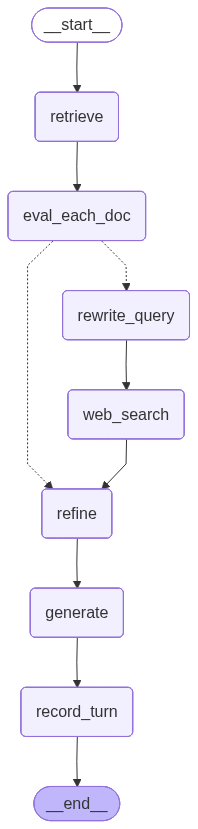
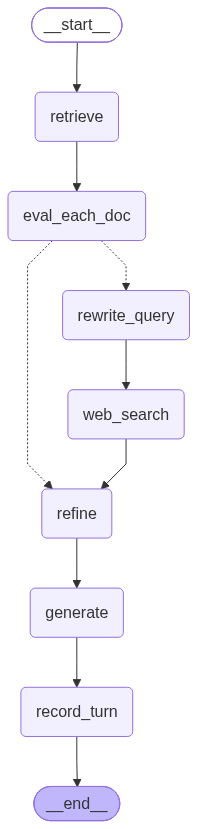
fix(crag): use Gemini primary with Groq fallback and batch strip refinement

diff --git a/backend/app/crag/llm.py b/backend/app/crag/llm.py
@@ -27,42 +27,38 @@ def _build_hf_chat(repo_id: str) -> ChatHuggingFace:
     return ChatHuggingFace(llm=endpoint)
 
 
-# A loop of free, high-volume HuggingFace-hosted open models (routed through HF's
-# Inference Providers) is primary - Gemini's free tier turned out to be too
-# restrictive (~20 requests/day) for how many LLM calls a single CRAG question makes
-# (grade every doc + filter every strip). Gemini and Groq's Qwen3 stay wired in
-# unchanged as the last two fallback tiers, after every HF model has been tried.
-hf_chats = [_build_hf_chat(repo_id) for repo_id in settings.hf_chat_models]
+# ---------------------------------------------------------------------------
+# Option A: Gemini is primary, Groq is fallback.
+# Bypasses HuggingFace Inference Providers which require paid credits (402).
+# ---------------------------------------------------------------------------
+primary_llm = ChatGoogleGenerativeAI(
+    model=settings.chat_model,
+    temperature=0,
+    google_api_key=settings.gemini_api_key,
+    max_retries=1,
+)
+fallback_llm = ChatGroq(
+    model=settings.fallback_chat_model,
+    temperature=0,
+    groq_api_key=settings.groq_api_key,
+)
 
-llm = hf_chats[0].with_fallbacks(hf_chats[1:] + [primary_llm, fallback_llm])
-
-
-def _hf_structured(chat: ChatHuggingFace, schema):
-    """HuggingFace's `with_structured_output` only supports a dict/JSON-schema for
-    tool-calling - a Pydantic class raises `NotImplementedError` there - so the
-    schema is converted to a dict up front and the result coerced back into the
-    Pydantic `schema` afterward, to match what Gemini/Groq's chains return.
-
-    Open-weight models occasionally mis-type a tool-call argument (e.g. emitting
-    the string "false" instead of the boolean `false`), which the provider rejects
-    server-side as a 400 before any response reaches this chain - retrying once
-    resolves it most of the time without needing a different model.
-    """
-    schema_dict = schema.model_json_schema()
-    schema_dict["title"] = schema.__name__
-    raw_chain = chat.with_structured_output(schema_dict, method="function_calling")
-    return (raw_chain | RunnableLambda(lambda d: schema(**d))).with_retry(stop_after_attempt=2)
+llm = primary_llm.with_fallbacks([fallback_llm])
 
 
 def structured(schema):
-    """Build a Runnable that returns `schema`, looping through every HF model
-    first and falling through to Gemini, then Groq, exactly as `llm` above does.
+    """Build a Runnable that returns `schema`, trying Gemini first and falling through to Groq."""
+    def _coerce(res):
+        if res is None:
+            raise ValueError(f"Model returned None for {schema.__name__}")
+        if isinstance(res, dict):
+            return schema(**res)
+        return res
 
-    Qwen's tool-calling occasionally misfires on a structured-output call
-    (`tool_use_failed`) even when the service itself is healthy, so the Groq tier
-    gets one quick retry of its own on top of taking over for Gemini.
-    """
-    fallback_structured = fallback_llm.with_structured_output(schema).with_retry(stop_after_attempt=2)
-    gemini_structured = primary_llm.with_structured_output(schema).with_fallbacks([fallback_structured])
-    hf_structured_chats = [_hf_structured(chat, schema) for chat in hf_chats]
-    return hf_structured_chats[0].with_fallbacks(hf_structured_chats[1:] + [gemini_structured])
+    primary_structured = (primary_llm.with_structured_output(schema) | RunnableLambda(_coerce))
+    fallback_structured = (
+        (fallback_llm.with_structured_output(schema) | RunnableLambda(_coerce))
+        .with_retry(stop_after_attempt=2)
+    )
+
+    return primary_structured.with_fallbacks([fallback_structured])

diff --git a/backend/app/crag/nodes.py b/backend/app/crag/nodes.py
@@ -31,13 +31,27 @@ doc_eval_chain = doc_eval_prompt | structured(DocEvalScore)
 
 def eval_each_doc_node(state: State) -> dict:
     q = state["question"]
+    docs = state["docs"]
     scores: List[float] = []
     good: List[Document] = []
 
-    for d in state["docs"]:
-        out = doc_eval_chain.invoke({"question": q, "chunk": d.page_content})
-        scores.append(out.score)
-        if out.score > settings.lower_threshold:
+    if not docs:
+        return {
+            "good_docs": [],
+            "verdict": "INCORRECT",
+            "reason": "No documents retrieved from vector store.",
+        }
+
+    inputs = [{"question": q, "chunk": d.page_content} for d in docs]
+    try:
+        results = doc_eval_chain.batch(inputs, config={"max_concurrency": 4}, return_exceptions=True)
+    except Exception:
+        results = [None] * len(docs)
+
+    for d, out in zip(docs, results):
+        score = out.score if (out and not isinstance(out, Exception) and hasattr(out, "score")) else 0.0
+        scores.append(score)
+        if score > settings.lower_threshold:
             good.append(d)
 
     if any(s > settings.upper_threshold for s in scores):
@@ -70,11 +84,11 @@ def decompose_to_sentences(text: str) -> List[str]:
     return [s.strip() for s in sentences if len(s.strip()) > 20]
 
 
-class KeepOrDrop(BaseModel):
-    keep: bool
+class RefinedStrips(BaseModel):
+    kept_sentences: List[str]
 
 
-filter_chain = filter_prompt | structured(KeepOrDrop)
+filter_chain = filter_prompt | structured(RefinedStrips)
 
 
 # -----------------------------
@@ -94,9 +108,22 @@ def refine(state: State) -> dict:
         docs_to_use = state["good_docs"] + state["web_docs"]
 
     context = "\n\n".join(d.page_content for d in docs_to_use).strip()
-    strips = decompose_to_sentences(context)
+    strips = decompose_to_sentences(context)[:20]
 
-    kept: List[str] = [s for s in strips if filter_chain.invoke({"question": q, "sentence": s}).keep]
+    kept: List[str] = []
+    if strips:
+        formatted_sentences = "\n".join(f"- {s}" for s in strips)
+        try:
+            out = filter_chain.invoke({"question": q, "sentences": formatted_sentences})
+            if out and hasattr(out, "kept_sentences") and out.kept_sentences:
+                kept = out.kept_sentences
+            else:
+                kept = strips
+        except Exception:
+            kept = strips
+    else:
+        kept = []
+
     refined_context = "\n".join(kept).strip()
 
     return {"strips": strips, "kept_strips": kept, "refined_context": refined_context}
@@ -113,8 +140,13 @@ rewrite_chain = rewrite_prompt | structured(WebQuery)
 
 
 def rewrite_query_node(state: State) -> dict:
-    out = rewrite_chain.invoke({"question": state["question"]})
-    return {"web_query": out.query}
+    try:
+        out = rewrite_chain.invoke({"question": state["question"]})
+        if out and hasattr(out, "query") and out.query:
+            return {"web_query": out.query}
+    except Exception:
+        pass
+    return {"web_query": state["question"]}
 
 
 # -----------------------------

diff --git a/backend/app/crag/prompts.py b/backend/app/crag/prompts.py
@@ -21,17 +21,18 @@ doc_eval_prompt = ChatPromptTemplate.from_messages(
 )
 
 # -----------------------------
-# Sentence-level relevance filter
+# Sentence-level relevance filter (batch)
 # -----------------------------
 filter_prompt = ChatPromptTemplate.from_messages(
     [
         (
             "system",
-            "You are a strict relevance filter.\n"
-            "Return keep=true only if the sentence directly helps answer the question.\n"
-            "Use ONLY the sentence. Output JSON only.",
+            "You are a strict relevance filter for RAG.\n"
+            "Given a question and a list of candidate sentences from documents, select and return ONLY the sentences that directly help answer the question.\n"
+            "Discard irrelevant, redundant, or boilerplate sentences.\n"
+            "Output JSON with kept_sentences.",
         ),
-        ("human", "Question: {question}\n\nSentence:\n{sentence}"),
+        ("human", "Question: {question}\n\nCandidate Sentences:\n{sentences}"),
     ]
 )
 

diff --git a/README.md b/README.md
@@ -161,7 +161,7 @@ Clarity CRAG/
 
 | Layer            | Choice                                             |
 |-------------------|-----------------------------------------------------|
-| LLM (chat)        | A loop of free HuggingFace-hosted open models (`Llama-3.3-70B-Instruct`, `Qwen2.5-72B-Instruct`, `Llama-3.1-70B-Instruct`, via HF Inference Providers) is primary, falling through to Gemini `gemini-2.5-flash` then Groq `qwen/qwen3-32b` |
+| LLM (chat)        | Google Gemini (`gemini-3.5-flash-lite` / `gemini-1.5-flash`) primary, falling through to Groq (`llama-3.1-8b-instant`), with single-call batch refinement to stay within free-tier rate limits |
 | Embeddings        | Gemini `gemini-embedding-001` (512-dim, free tier), fallback local `jinaai/jina-embeddings-v2-small-en` (FastEmbed/ONNX) |
 | Orchestration     | LangGraph `StateGraph`                              |
 | Vector store      | Pinecone (serverless)                               |
